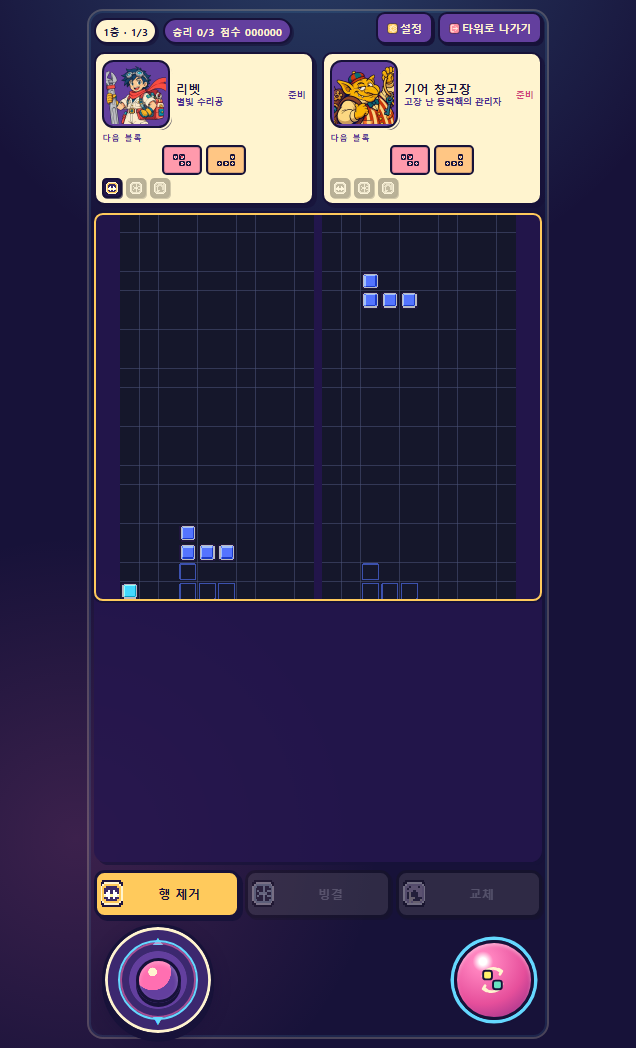
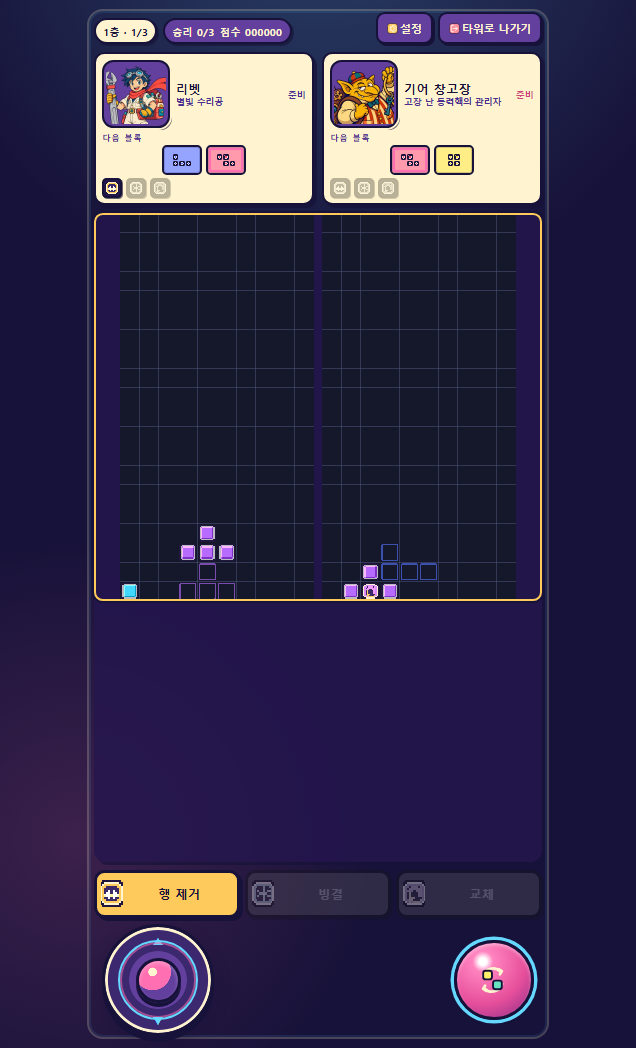
test: freeze store media battle capture

diff --git a/src/test-support/e2e-driver.ts b/src/test-support/e2e-driver.ts
@@ -20,6 +20,7 @@ export interface TePpuE2EDriver {
   finish(result: MatchResult, durationTicks?: number): Promise<void>;
   setCloseMode(mode: E2ECloseMode): void;
   setLifecycle(state: E2ELifecycleState): void;
+  setMatchPaused(paused: boolean): void;
   setProgressSaveMode(mode: E2EProgressSaveMode): void;
 }
 
@@ -30,6 +31,7 @@ declare global {
 }
 
 type FinishHandler = (outcome: MatchOutcome) => void | Promise<void>;
+type PauseHandler = (paused: boolean) => void;
 
 interface FinishBinding {
   readonly handler: FinishHandler;
@@ -41,6 +43,7 @@ export class E2EDriverController {
   #closeCount = 0;
   #closeMode: E2ECloseMode = 'resolve';
   #finishBinding: FinishBinding | null = null;
+  #pauseHandler: PauseHandler | null = null;
   #progressSaveMode: E2EProgressSaveMode = 'persist';
   #visibilityState: E2ELifecycleState = 'visible';
   #installedWindow: Window | null = null;
@@ -72,6 +75,11 @@ export class E2EDriverController {
       },
       setLifecycle(state) {
         controller.#setLifecycle(state);
+      },
+      setMatchPaused(paused) {
+        const handler = controller.#pauseHandler;
+        if (handler === null) throw new Error('No E2E match loop is currently active.');
+        handler(paused);
       },
       setProgressSaveMode(mode) {
         controller.#setProgressSaveMode(mode);
@@ -107,6 +115,7 @@ export class E2EDriverController {
         );
       }
       this.#finishBinding = null;
+      this.#pauseHandler = null;
       this.#installedWindow = null;
       this.#previousVisibilityDescriptor = undefined;
     };
@@ -119,6 +128,13 @@ export class E2EDriverController {
     this.#finishBinding = { handler, metadata };
     return () => {
       if (this.#finishBinding?.handler === handler) this.#finishBinding = null;
+    };
+  }
+
+  bindPause(handler: PauseHandler): () => void {
+    this.#pauseHandler = handler;
+    return () => {
+      if (this.#pauseHandler === handler) this.#pauseHandler = null;
     };
   }
 

diff --git a/tests/store-media/store-media.spec.ts b/tests/store-media/store-media.spec.ts
@@ -3,7 +3,9 @@ import { resolve } from 'node:path';
 import type { Page } from '@playwright/test';
 import { expect, seedReturningProfile, test } from '../e2e/helpers';
 
-const MEDIA_ROOT = resolve('artifacts/apps-in-toss/store-media');
+const MEDIA_ROOT = resolve(
+  process.env.STORE_MEDIA_OUTPUT_DIR ?? 'artifacts/apps-in-toss/store-media',
+);
 const VIEWPORT = { width: 636, height: 1048 } as const;
 
 async function waitForVisuals(page: Page): Promise<void> {
@@ -67,5 +69,9 @@ test('captures title, tower, and populated battle upload screenshots', async ({ 
     await hardDropWithJoystick(page);
     await page.waitForTimeout(300);
   }
+  await page.evaluate(() => window.__TE_PPU_E2E__.setMatchPaused(true));
+  const pausedTick = await page.getByTestId('match-tick').textContent();
+  await page.waitForTimeout(100);
+  await expect(page.getByTestId('match-tick')).toHaveText(pausedTick ?? '');
   await capture(page, 'screenshot-03-battle.png');
 });

diff --git a/src/test-support/e2e-driver.test.ts b/src/test-support/e2e-driver.test.ts
@@ -96,4 +96,21 @@ describe('E2E driver', () => {
 
     expect(seen).toEqual(['hidden', 'visible']);
   });
+
+  it('routes capture pause requests only to the active match loop', () => {
+    const controller = new E2EDriverController();
+    cleanups.push(controller.install());
+    const setPaused = vi.fn<(paused: boolean) => void>();
+    const unbindPause = controller.bindPause(setPaused);
+
+    window.__TE_PPU_E2E__.setMatchPaused(true);
+    window.__TE_PPU_E2E__.setMatchPaused(false);
+
+    expect(setPaused).toHaveBeenNthCalledWith(1, true);
+    expect(setPaused).toHaveBeenNthCalledWith(2, false);
+    unbindPause();
+    expect(() => window.__TE_PPU_E2E__.setMatchPaused(true)).toThrow(
+      'No E2E match loop is currently active.',
+    );
+  });
 });

diff --git a/src/test-support/e2e-match.tsx b/src/test-support/e2e-match.tsx
@@ -87,5 +87,20 @@ function E2EMatchRoute({
     }),
     [controller, props.encounterIndex, props.floor, props.onFinished, props.wins],
   );
-  return <MatchScreen {...props} useMatchLoopImpl={useMatchLoopImpl} />;
+  const loopRef = useMemo<{ current: MatchLoopView['setPaused'] | null }>(
+    () => ({ current: null }),
+    [],
+  );
+  const wrappedLoop = useCallback<MatchLoopHook>((options) => {
+    const loop = useMatchLoopImpl(options);
+    loopRef.current = loop.setPaused;
+    return loop;
+  }, [loopRef, useMatchLoopImpl]);
+  useEffect(
+    () => controller.bindPause((paused) => {
+      loopRef.current?.('background', paused);
+    }),
+    [controller, loopRef],
+  );
+  return <MatchScreen {...props} useMatchLoopImpl={wrappedLoop} />;
 }
